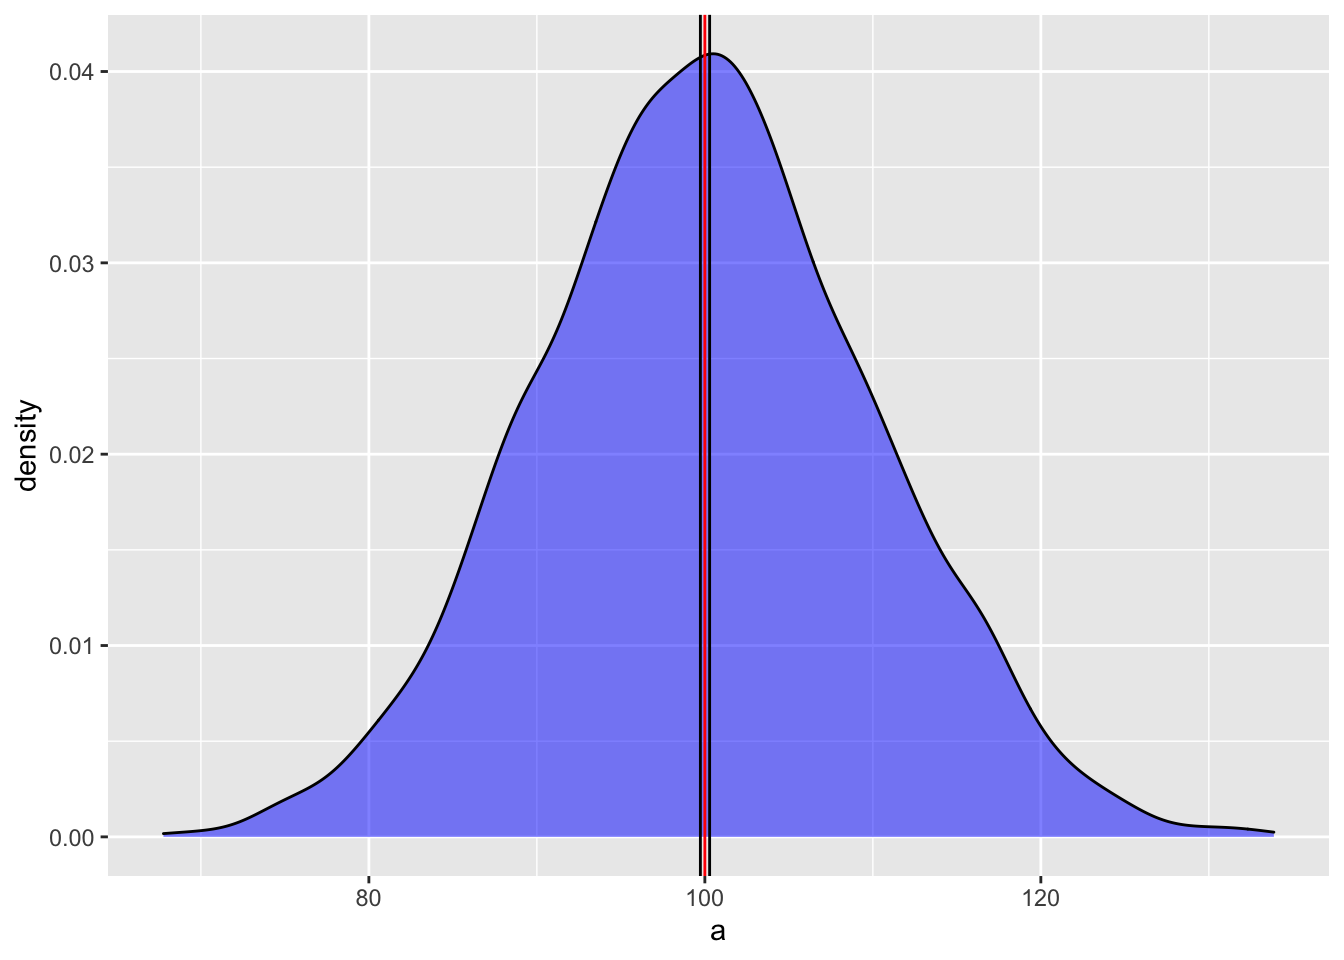
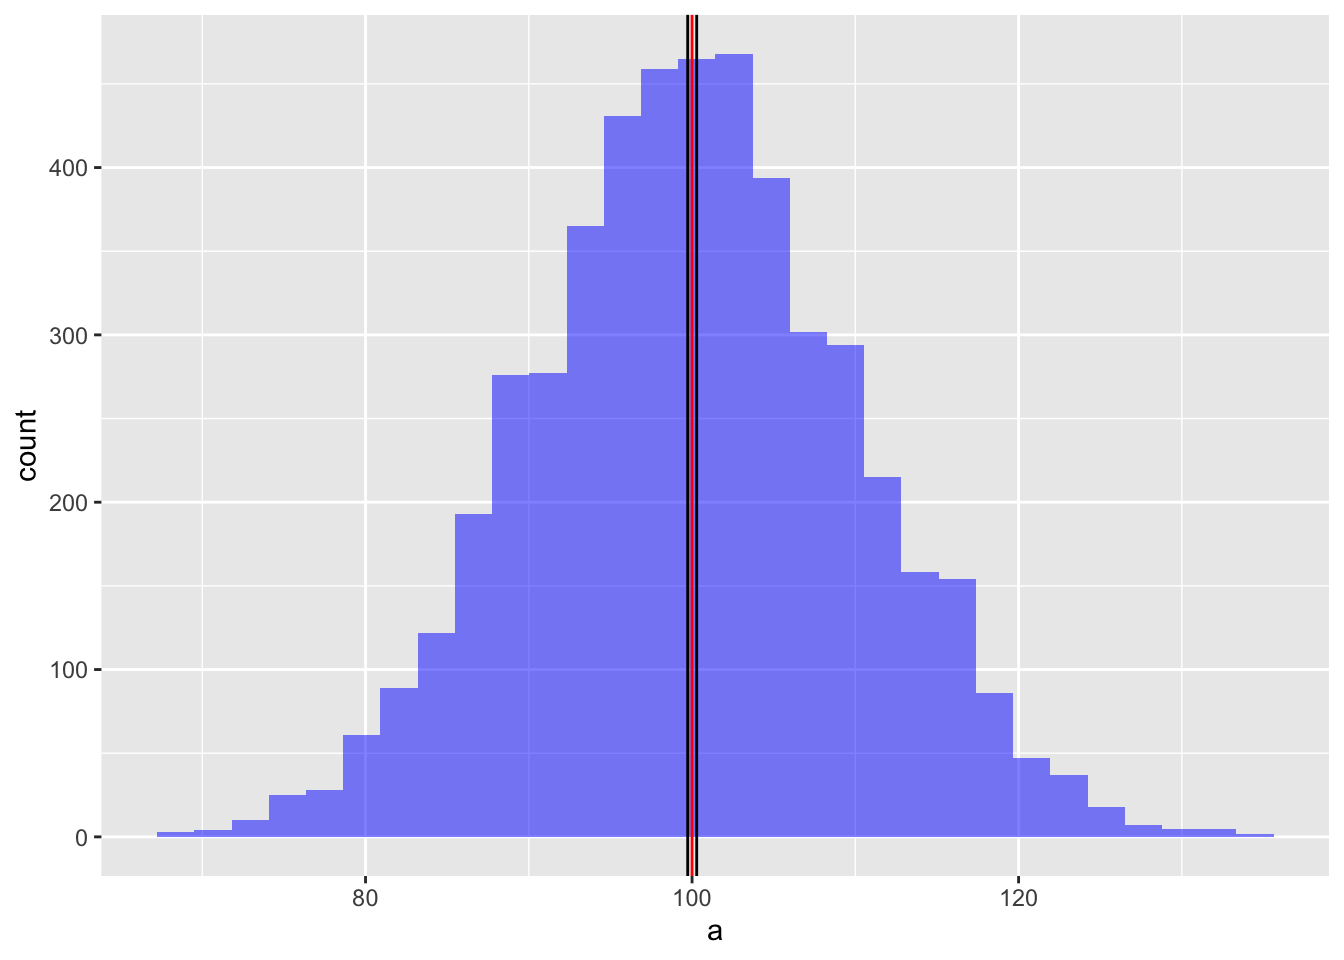
histo

diff --git a/T4_Medidas_dispersión.html b/T4_Medidas_dispersión.html
@@ -886,7 +886,7 @@ div.tocify {
 <pre><code>## [1] 103.4564</code></pre>
 <p>Visualizando el intervalos de confianza del promedio. Lo que uno observa es que primero el promedio puede ser en localidad diferentes porque el conjunto de datos fue menos en el segundo gráfico. Además vemos que el intervalo de 95% de confianza del promedio en el segundo es más amplio.</p>
 <div class="sourceCode" id="cb58"><pre class="sourceCode r"><code class="sourceCode r"><span id="cb58-1"><a href="#cb58-1"></a>CI_a=<span class="kw">ggplot</span>(dfa, <span class="kw">aes</span>(a))<span class="op">+</span></span>
-<span id="cb58-2"><a href="#cb58-2"></a><span class="st">  </span><span class="kw">geom_density</span>(<span class="dt">fill=</span><span class="st">&quot;blue&quot;</span>, <span class="dt">alpha=</span>.<span class="dv">5</span>)<span class="op">+</span></span>
+<span id="cb58-2"><a href="#cb58-2"></a><span class="st">  </span><span class="kw">geom_histogram</span>(<span class="dt">fill=</span><span class="st">&quot;blue&quot;</span>, <span class="dt">alpha=</span>.<span class="dv">5</span>)<span class="op">+</span></span>
 <span id="cb58-3"><a href="#cb58-3"></a><span class="st">  </span><span class="kw">theme</span>(<span class="dt">legend.position =</span> <span class="st">&quot;none&quot;</span>) <span class="op">+</span></span>
 <span id="cb58-4"><a href="#cb58-4"></a><span class="st">  </span><span class="kw">geom_vline</span>(<span class="kw">aes</span>(<span class="dt">xintercept =</span> <span class="dv">100</span>), <span class="dt">colour=</span><span class="st">&quot;red&quot;</span>)<span class="op">+</span></span>
 <span id="cb58-5"><a href="#cb58-5"></a><span class="st">  </span><span class="kw">geom_vline</span>(<span class="kw">aes</span>(<span class="dt">xintercept =</span> Limite_inferior_a), <span class="dt">colour=</span><span class="st">&quot;black&quot;</span>)<span class="op">+</span></span>
@@ -894,7 +894,7 @@ div.tocify {
 <span id="cb58-7"><a href="#cb58-7"></a>CI_a</span></code></pre></div>
 <p><img src="T4_Medidas_dispersio%CC%81n_files/figure-html/ch17-1.png" width="672" /></p>
 <div class="sourceCode" id="cb59"><pre class="sourceCode r"><code class="sourceCode r"><span id="cb59-1"><a href="#cb59-1"></a>CI_b=<span class="kw">ggplot</span>(dfb, <span class="kw">aes</span>(b))<span class="op">+</span></span>
-<span id="cb59-2"><a href="#cb59-2"></a><span class="st">  </span><span class="kw">geom_density</span>(<span class="dt">fill=</span><span class="st">&quot;blue&quot;</span>, <span class="dt">alpha=</span>.<span class="dv">5</span>)<span class="op">+</span></span>
+<span id="cb59-2"><a href="#cb59-2"></a><span class="st">  </span><span class="kw">geom_histogram</span>(<span class="dt">fill=</span><span class="st">&quot;blue&quot;</span>, <span class="dt">alpha=</span>.<span class="dv">5</span>)<span class="op">+</span></span>
 <span id="cb59-3"><a href="#cb59-3"></a><span class="st">  </span><span class="kw">theme</span>(<span class="dt">legend.position =</span> <span class="st">&quot;none&quot;</span>) <span class="op">+</span></span>
 <span id="cb59-4"><a href="#cb59-4"></a><span class="st">  </span><span class="kw">geom_vline</span>(<span class="kw">aes</span>(<span class="dt">xintercept =</span>mean_b), <span class="dt">colour=</span><span class="st">&quot;red&quot;</span>)<span class="op">+</span></span>
 <span id="cb59-5"><a href="#cb59-5"></a><span class="st">  </span><span class="kw">geom_vline</span>(<span class="kw">aes</span>(<span class="dt">xintercept =</span> Limite_inferior_b), <span class="dt">colour=</span><span class="st">&quot;black&quot;</span>)<span class="op">+</span></span>
